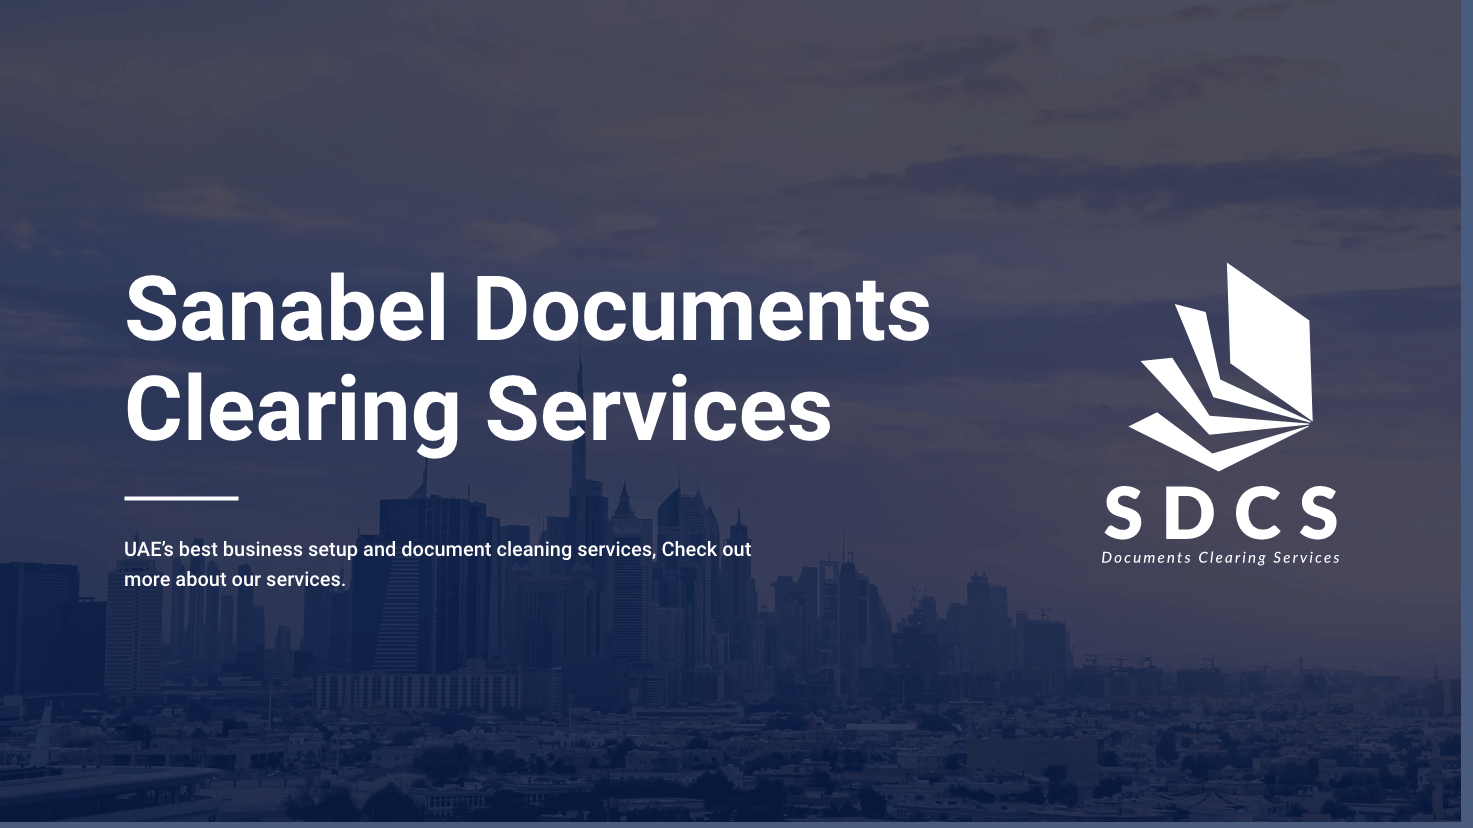
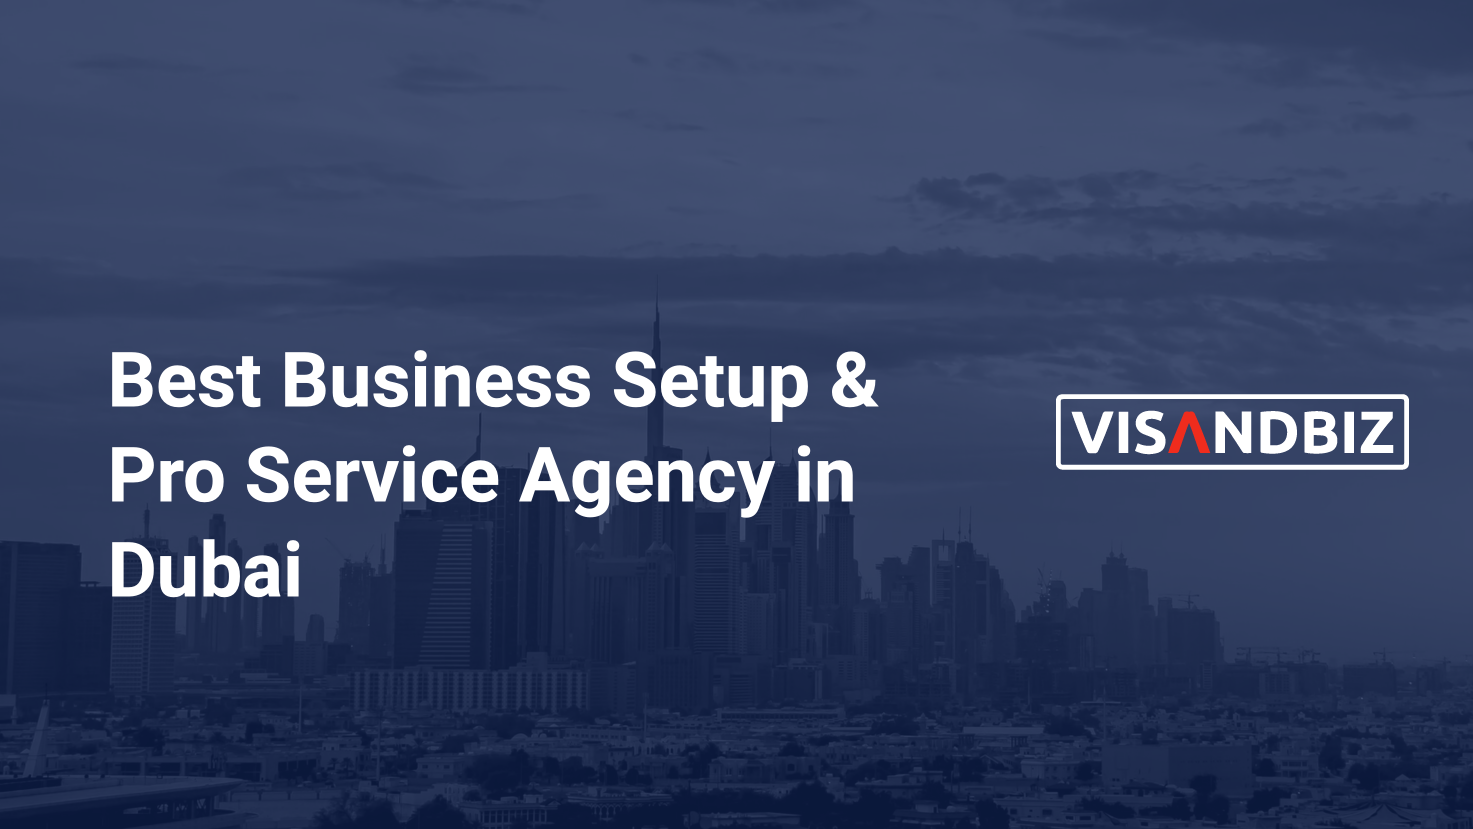
updates 03

diff --git a/vite.config.js b/vite.config.js
@@ -16,7 +16,7 @@ export default defineConfig({
             title: 'Alan',
             assets: resolve(__dirname, 'assets'),
             boydClass: 'page_body',
-            whatsapp: "https://wa.me/+971565704704?text=Hi,%20Sanabel%20Documents%20Clearing%20Services",
+            whatsapp: "https://wa.me/+971565704704?text=Hi,%20VISANDBIZ",
             map: "hhttps://www.google.com/maps?q=25.279754638671875,55.34518051147461&z=17&hl=en"
         },
         partialDirectory: [resolve(__dirname, 'views/layout'), resolve(__dirname, 'views/components'), resolve(__dirname, 'views/sections')],

diff --git a/views/sections/banner.html b/views/sections/banner.html
@@ -66,10 +66,10 @@
                 <span>Pro Service Agency in </span>
 				<span>Dubai</span>
             </h1>
-
+<!-- 
             <div class="line_"></div>
 
-            <p>All services at your Doorstep</p>
+            <p>All services at your Doorstep</p> -->
 
             <div class="banner_button_group">
                 <a href="#about"  class="btn_primary"><span>Read More</span></a>

diff --git a/views/assets/scss/components/_home.scss b/views/assets/scss/components/_home.scss
@@ -582,6 +582,7 @@
         grid-template-columns: 1fr 1.25fr;
         grid-gap: calc(var(--font-size) * 2.5);
         padding: calc(var(--font-size) * 1.5);
+        align-items: flex-start;
 
         @media only screen and (max-width:767px){
             grid-template-columns: 1fr;
